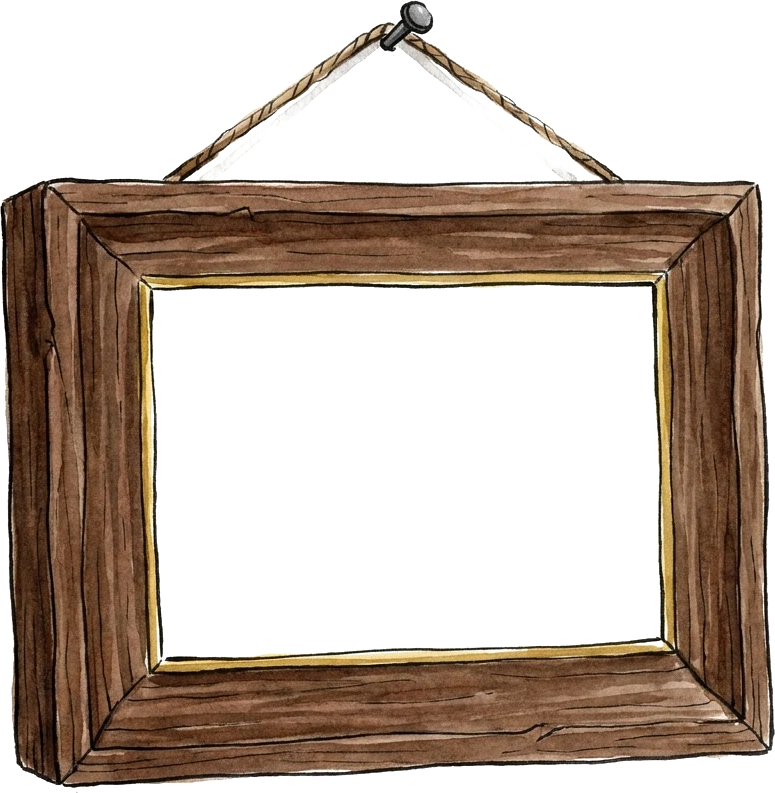
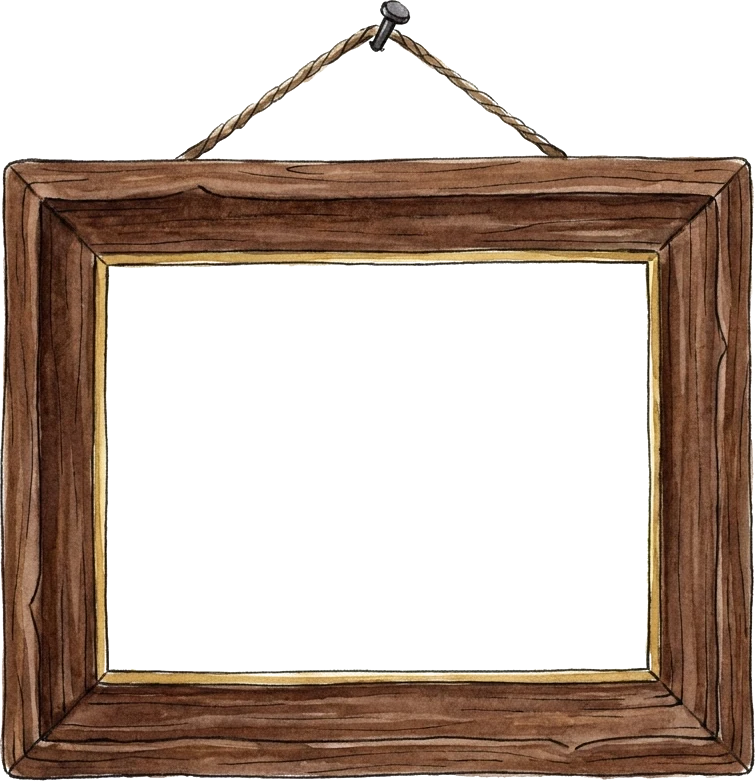
Classic: the frame redrawn flat and front-on to match the shelf; ?startvar=1..5 tries five Start treatments for the design review
Claude-Session: https://claude.ai/code/session_018B8Mk83MzFFhMoVFwvirTs

diff --git a/classic.html b/classic.html
@@ -73,6 +73,30 @@
   .start:hover{filter:brightness(1.06)}
   .start:active{box-shadow:inset 0 1px 2px rgba(0,0,0,.3)}
   .start svg{width:14px;height:14px;fill:#fff}
+  /* ---- ?startvar=N : five treatments of the Start control, for the design review ---- */
+  /* 1 · compact, right-aligned under the minutes column */
+  body[data-startvar="1"] .startrow{margin:.6rem 0 0;justify-content:flex-end}
+  body[data-startvar="1"] .start{width:auto;border-radius:4px;padding:.6rem 1.2rem}
+  /* 2 · a fourth row in the list, rust text, no bar */
+  body[data-startvar="2"] .startrow{margin:0 -1.2rem -.8rem}
+  body[data-startvar="2"] .start{background:none;color:var(--rust);border-top:1px solid var(--linel);border-radius:0;justify-content:flex-start;padding:.7rem 1.2rem .8rem 1.2rem;font-size:1rem}
+  body[data-startvar="2"] .start svg{fill:var(--rust);margin-left:2px;margin-right:6px}
+  /* 3 · a round play disc beside the heading; the card has no bar */
+  body[data-startvar="3"] .startrow{display:none}
+  body[data-startvar="3"] .h1row{align-items:center}
+  body[data-startvar="3"] .startdisc{margin-left:auto;display:inline-flex;align-items:center;gap:12px;font:700 .95rem var(--head);color:var(--ink);background:none;border:0;cursor:pointer}
+  body[data-startvar="3"] .startdisc i{width:54px;height:54px;border-radius:50%;background:var(--rust);display:grid;place-items:center;box-shadow:0 6px 14px rgba(192,99,37,.35)}
+  body[data-startvar="3"] .startdisc svg{width:20px;height:20px;fill:#fff;margin-left:3px}
+  body[data-startvar="3"] .startdisc:hover i{filter:brightness(1.06)}
+  /* 4 · hand-lettered, with the sketch underline, right of the card */
+  body[data-startvar="4"] .startrow{margin:.5rem 0 0;justify-content:flex-end}
+  body[data-startvar="4"] .start{width:auto;background:none;color:var(--rust);font:600 1.45rem var(--hand);padding:.2rem .4rem .55rem;border-radius:0;position:relative}
+  body[data-startvar="4"] .start svg{fill:var(--rust);width:16px;height:16px}
+  body[data-startvar="4"] .start::after{content:'';position:absolute;left:4px;right:4px;bottom:-2px;height:12px;background:url('assets/lw/shelf/underline_sketch.webp') center/100% 100% no-repeat;opacity:.9}
+  /* 5 · outlined rust bar, the glyph filled */
+  body[data-startvar="5"] .start{background:none;color:var(--rust);box-shadow:inset 0 0 0 2px var(--rust);border-radius:0 0 4px 4px}
+  body[data-startvar="5"] .start svg{fill:var(--rust)}
+  body[data-startvar="5"] .start:hover{background:color-mix(in srgb,var(--rust) 8%,transparent);filter:none}
   .startnote{font-family:var(--hand);font-size:1.15rem;color:var(--mut)}
 
   /* ---- subjects ---- */
@@ -99,10 +123,10 @@
   /* the picture on the wall: this week's, in a chunky painted frame, hung a little askew from a nail */
   /* the painted frame (assets/lw/shelf/frame_wall.webp, nail and twine included) hangs a little askew from its nail;
      the week's picture sits in the opening measured from the frame's own alpha (frame_wall.json) */
-  .wallhang{position:absolute;left:55%;bottom:50px;width:21%;aspect-ratio:775/793;z-index:1;transform:rotate(-2.4deg);transform-origin:52% 2%}
+  .wallhang{position:absolute;left:55%;bottom:50px;width:21%;aspect-ratio:755/781;z-index:1;transform:rotate(-2.4deg);transform-origin:52% 2%}
   .wallhang[hidden]{display:none}
   .wallhang .frame{position:absolute;inset:0;width:100%;height:100%;display:block;filter:drop-shadow(0 4px 5px rgba(40,25,10,.3))}
-  .wallhang .pic{position:absolute;left:20.1%;top:36.3%;width:64.3%;height:45.4%;object-fit:cover;display:block}
+  .wallhang .pic{position:absolute;left:14.2%;top:34.1%;width:71.5%;height:51.7%;object-fit:cover;display:block}
   .wallhang .walltip{position:absolute;left:50%;bottom:-14px;transform:translate(-50%,100%);white-space:nowrap;
     background:var(--card);border:1px solid var(--line);border-radius:10px;padding:.4rem .62rem;font:700 .82rem var(--head);color:var(--ink);
     box-shadow:0 10px 26px rgba(40,28,12,.16);opacity:0;pointer-events:none;transition:opacity .16s;z-index:30}
@@ -796,6 +820,13 @@ fetch('_weekly_doodles.json').then(r=>r.json()).then(cal=>{
   img.onload=()=>{ box.hidden=false; }; img.onerror=()=>{ box.hidden=true; };
   document.getElementById('walltip').textContent=w.cap; img.src='assets/lw/'+w.art;
 }).catch(()=>{});
+/* ?startvar=N — the five Start treatments (design review); 3 moves the control up beside the heading */
+(function(){ const v=_dq.get('startvar'); if(!v) return; document.body.dataset.startvar=v;
+  if(v==='3'){ const h=document.querySelector('.h1row'), sb=document.getElementById('startbtn'); if(h&&sb){
+    const d=document.createElement('button'); d.className='startdisc'; d.type='button';
+    const sync=()=>{ d.innerHTML='<span>'+sb.textContent.trim()+'</span><i><svg viewBox="0 0 16 16"><path d="M4 2l10 6-10 6z"/></svg></i>'; };
+    sync(); new MutationObserver(sync).observe(sb,{childList:true,subtree:true,characterData:true});
+    d.onclick=()=>sb.click(); h.appendChild(d); } } })();
 /* date + exam countdown + mini month */
 const now=new Date();
 document.getElementById('today').textContent=(window.svGreeting&&svGreeting()?svGreeting()+' · ':'')+now.toLocaleDateString('en-GB',{weekday:'long',day:'numeric',month:'long'});
